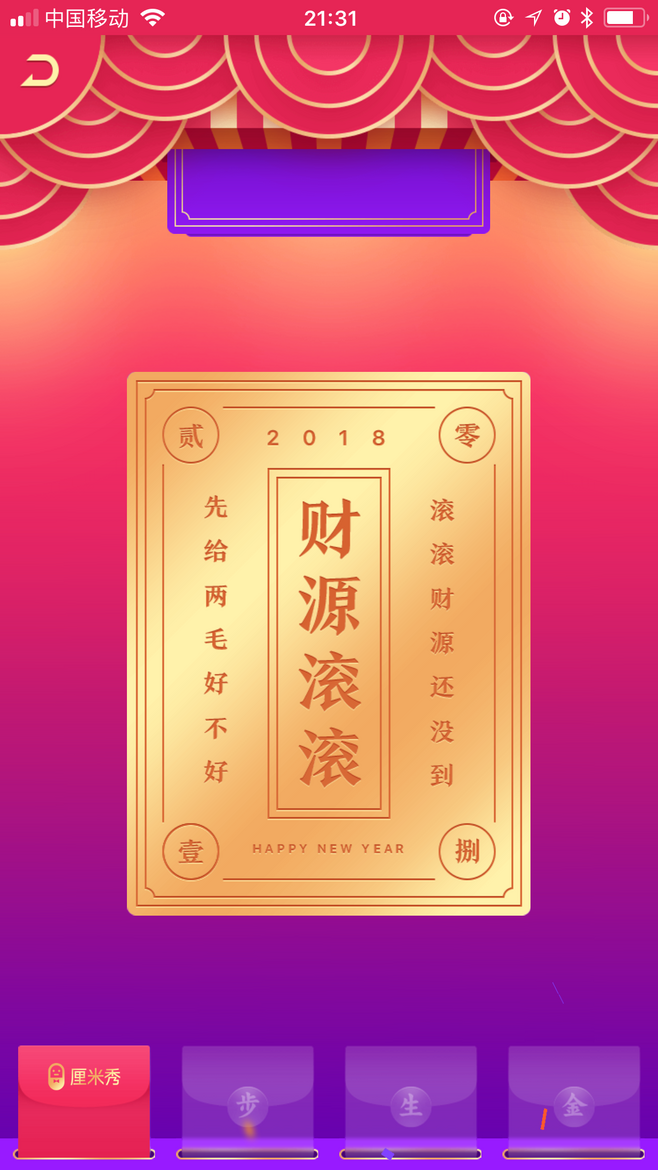
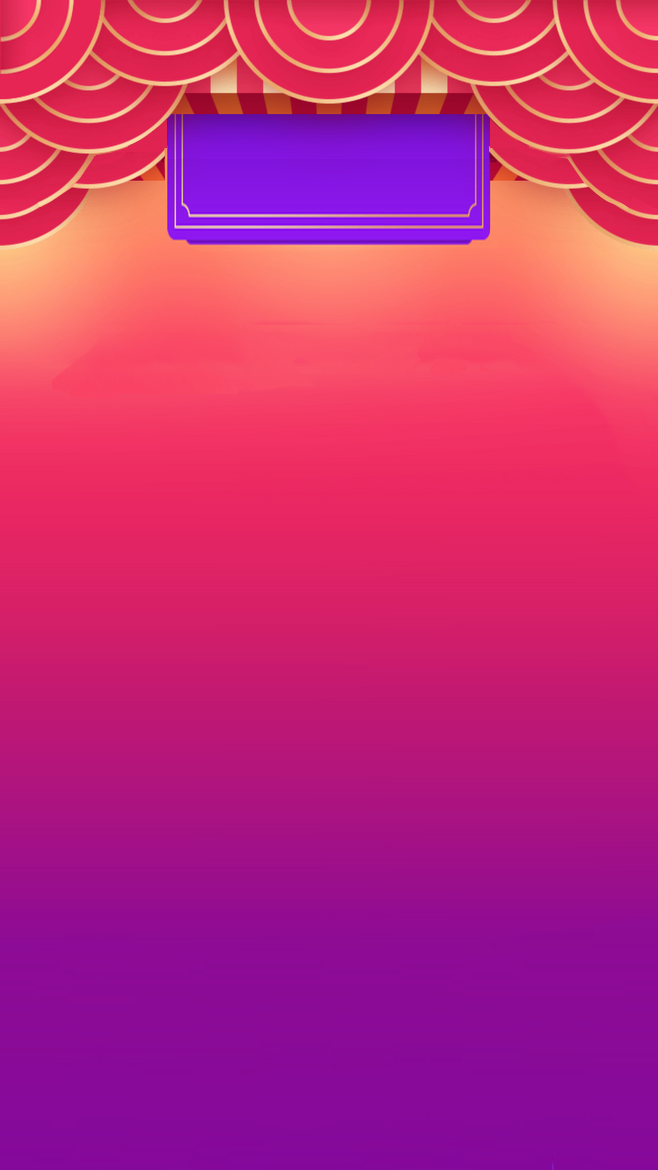
修改红包页面图片适应

diff --git a/src/routes/lucky/index.js b/src/routes/lucky/index.js
@@ -38,20 +38,28 @@ const Lucky = ({ lucky, dispatch, form: { getFieldProps, validateFields } }) => 
       dispatch({type:'lucky/getLucky', payload: value})
     });
   };
-
+  let height = document.body.clientHeight * 121 / 750;
   return (
-    <div className={styles.bg}>
+    <div>
       <Helmet>
         <title>一键最佳</title>
       </Helmet>
-      <div className={styles.banner}/>
-      <div className={styles.from_}>
-        <InputItem className={styles.phone_input} {...getFieldProps('phone')} type="phone" placeholder="领取红包手机号">手机号码</InputItem>
-        <InputItem className={styles.url_input} {...getFieldProps('url')} type="text" placeholder="饿了么红包链接">红包链接</InputItem>
+      <div className={styles.from_bg}>
+        <div className={styles.from_}>
+          <InputItem className={styles.phone_input} {...getFieldProps('phone')} type="phone" placeholder="领取红包手机号">手机号码</InputItem>
+          <InputItem className={styles.url_input} {...getFieldProps('url')} type="text" placeholder="饿了么红包链接">红包链接</InputItem>
+          <div className={styles.btn_div}>
+            <Button type="primary" onClick={() => onHandleOk()}>一键领取</Button>
+          </div>
+          <div className={styles.footer_info}>
+            <span>1. 饿了么红包：https://h5.ele.me/hongbao/开头的链接,链接不带 lucky_number 的不是拼手气，不能用。</span><br/>
+            <span>如何复制红包链接？</span><br/>
+            <span>1. 分享到 QQ，选择 “我的电脑”，PC 版 QQ 复制链接。</span><br/>
+            <span>2. 分享到微信，PC 版微信右键用浏览器打开，复制链接。</span><br/>
+          </div>
+        </div>
       </div>
-      <div className={styles.btn_div}>
-        <Button type="primary" onClick={() => onHandleOk()}>一键领取</Button>
-      </div>
+      <img className={styles.banner_img} src={require('../../assets/lucky/fw658.png')} alt="aa"/>
     </div>
   );
 }

diff --git a/src/routes/lucky/index.less b/src/routes/lucky/index.less
@@ -1,5 +1,55 @@
-.banner{width: 100%;height: 300px;}
-.phone_input{border-top-left-radius: 10px;border-top-right-radius: 10px;}
-.url_input{border-bottom-left-radius: 10px;border-bottom-right-radius: 10px;}
-.from_{width: 96%;margin: 0 auto;}
-.btn_div{width: 90%;margin: 0 auto;margin-top: 20px;}
+.banner_img {
+  width: 100%;
+  height: 100%;
+  display: block;
+  position: absolute;
+  top: 0;
+  z-index: 1;
+}
+.phone_input {
+  border-top-left-radius: 10px;
+  border-top-right-radius: 10px;
+}
+.url_input {
+  border-bottom-left-radius: 10px;
+  border-bottom-right-radius: 10px;
+}
+.btn_div {
+  width: 95%;
+  margin: 0 auto;
+  padding-top: 20px;
+  padding-bottom: 30px;
+}
+.from_bg {
+    position: relative;
+    z-index: 2;
+}
+.from_ {
+  width: 96%;
+  margin: 0 auto;
+  padding-top: 60%;
+}
+@media(max-width:320px){
+    .from_{
+        padding-top: 40%;
+    }
+}
+@media(max-width:360px){
+    .from_{
+        padding-top: 50%;
+    }
+}
+@media(max-width:375px){
+    .from_{
+        padding-top: 60%;
+    }
+}
+.footer_info {
+  line-height: 25px;
+  color: #fff;
+  width: 80%;
+  border: 2px solid #fff;
+  margin: 0 auto;
+  border-radius: 5px;
+  padding: 10px;
+}
